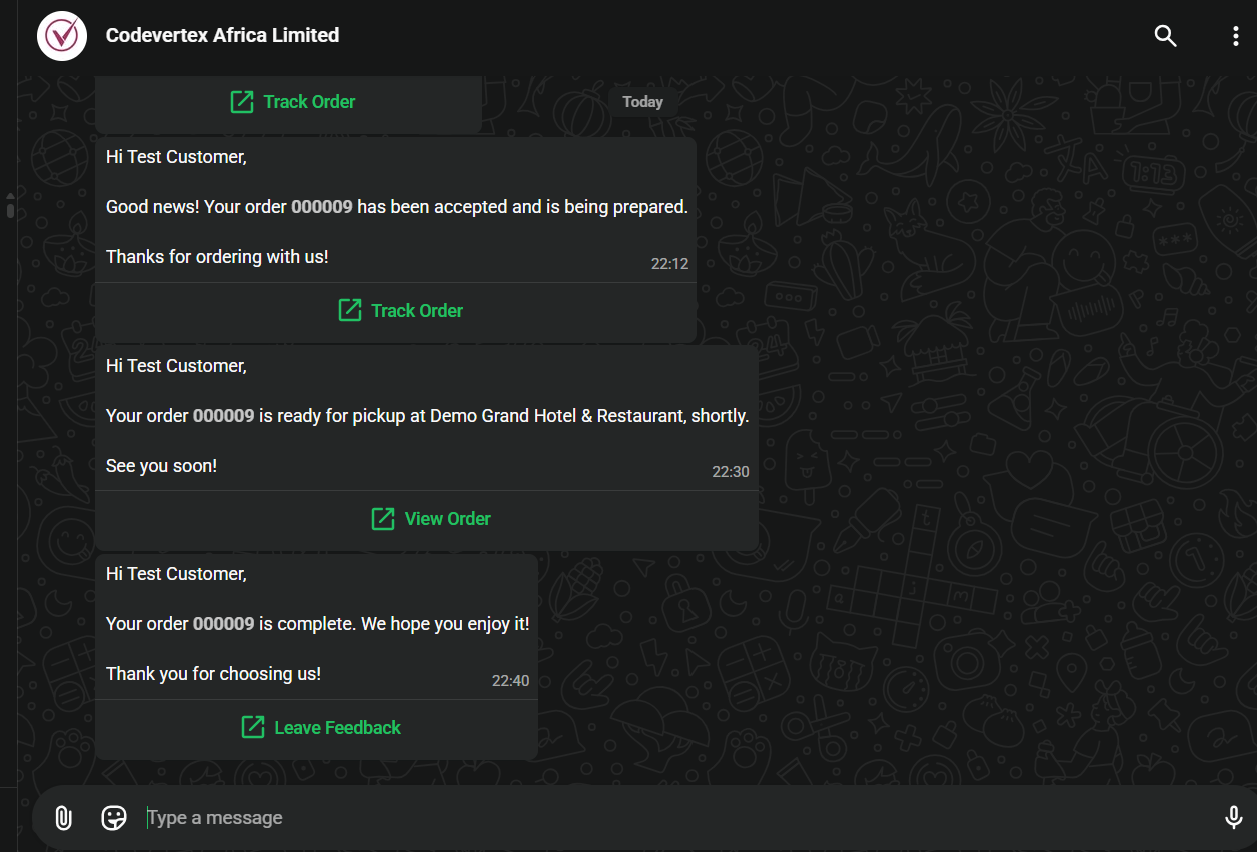
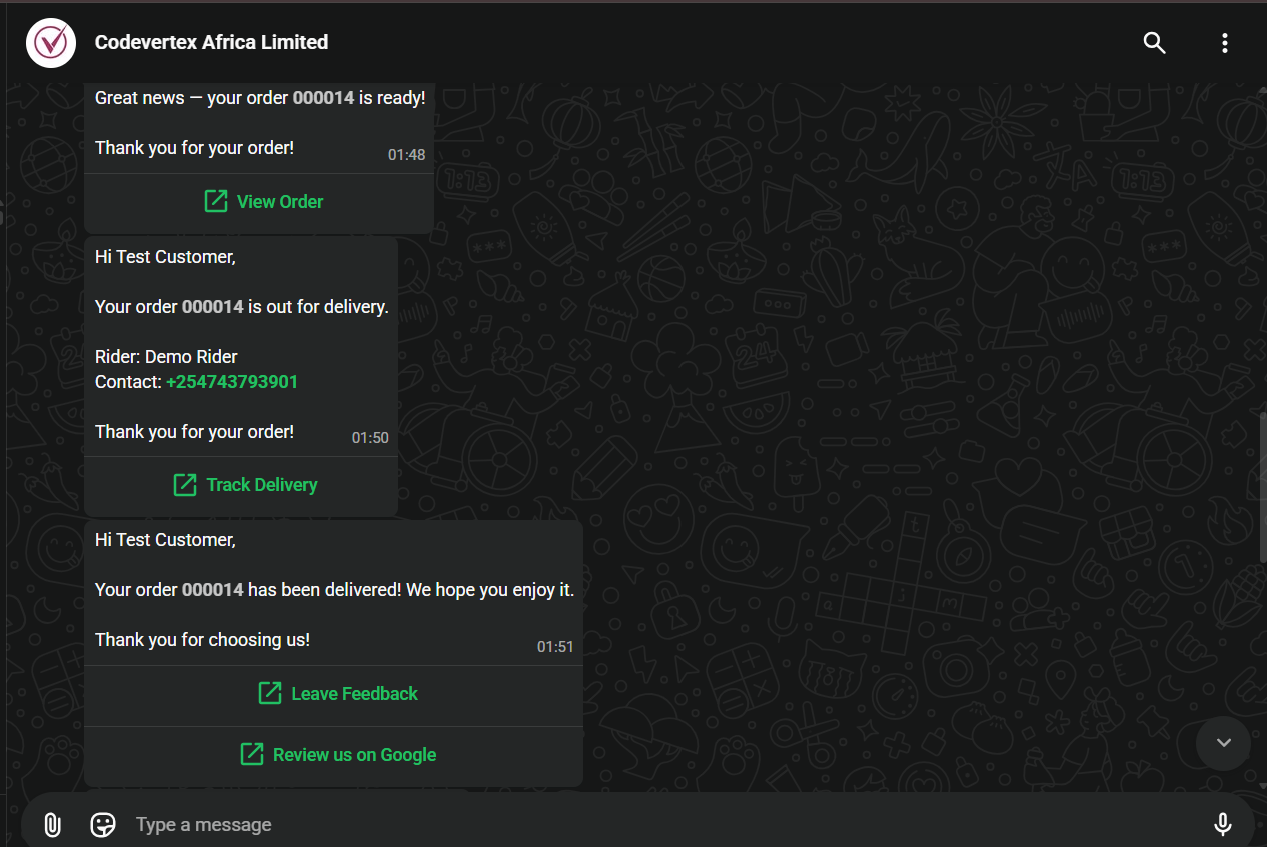
docs(ordering): WhatsApp delivered message with Review us on Google (1.14.2)

diff --git a/docs/user-guide/ordering/ordering-as-a-customer.md b/docs/user-guide/ordering/ordering-as-a-customer.md
@@ -91,8 +91,8 @@ messages carry a **Track Order** (or **View Order**) button that opens their ord
 | Order placed | "We have received your order", the total, and that you will confirm it |
 | You accept it | "Good news! Your order has been accepted and is being prepared" |
 | Ready for pickup | Ready at your outlet, with the collection code |
-| Rider on the way | The rider's name and the delivery code |
-| Delivered or collected | Thanks, with a link to rate the order (and to review you on Google, when set up) |
+| Rider on the way | The rider's name and phone number, with **Track Delivery** |
+| Delivered or collected | Thanks, with **Leave Feedback** and, when you have set up your Google review link, **Review us on Google** |
 | Rejected or cancelled | The reason, for example "payment not completed in time" |
 
 ### On WhatsApp
@@ -101,15 +101,19 @@ The first messages are the same for every order: received with the total, then a
 
 ![WhatsApp: order received and accepted, above an unpaid order cancelled](assets/notifications/whatsapp-received-accepted.png)
 
-A pickup order is then ready at your outlet, and finally complete, with **Leave Feedback**.
+A pickup order is then ready at your outlet, with the outlet's name.
 
 ![WhatsApp: ready for pickup at the outlet](assets/notifications/whatsapp-ready-for-pickup.png)
-
-![WhatsApp: order complete, with Leave Feedback](assets/notifications/whatsapp-completed.png)
 
 A delivery order tells the customer when it is ready and waiting for the rider.
 
 ![WhatsApp: a delivery order received, accepted and ready](assets/notifications/whatsapp-delivery-ready.png)
+
+When the rider collects it, the customer gets the rider's name and phone number with **Track
+Delivery**. Once it is delivered, the last message thanks them and offers **Leave Feedback** and,
+when you have set up your Google review link, **Review us on Google**.
+
+![WhatsApp: out for delivery with the rider's details, then delivered with Leave Feedback and Review us on Google](assets/notifications/whatsapp-completed.png)
 
 When you reject an order, the message gives your reason.
 

diff --git a/CHANGELOG.md b/CHANGELOG.md
@@ -2,6 +2,13 @@
 
 All notable changes to the Codevertex Africa platform documentation are recorded here. Format loosely follows [Keep a Changelog](https://keepachangelog.com/en/1.1.0/); versions are published via [mike](https://github.com/jimporter/mike) and selectable from the version dropdown on the published site.
 
+## [1.14.2] - 2026-11-03
+
+### Changed
+- **Ordering as a customer** and **Delivery orders**: the WhatsApp delivered message now shows
+  **Leave Feedback** and **Review us on Google**; the on-the-way message gives the rider's name
+  and phone with Track Delivery.
+
 ## [1.14.1] - 2026-11-03
 
 ### Added

diff --git a/docs/user-guide/ordering/delivery-orders.md b/docs/user-guide/ordering/delivery-orders.md
@@ -100,3 +100,8 @@ itself; a card still on the queue shows **Close order**.
 ## What the customer sees
 
 ![The customer's order page while on the way](assets/delivery/08-customer-on-the-way.png)
+
+On WhatsApp the customer gets the rider's name and phone when the order leaves, and a thank-you
+with **Leave Feedback** and **Review us on Google** once it is delivered.
+
+![WhatsApp: out for delivery, then delivered with Review us on Google](assets/notifications/whatsapp-completed.png)
